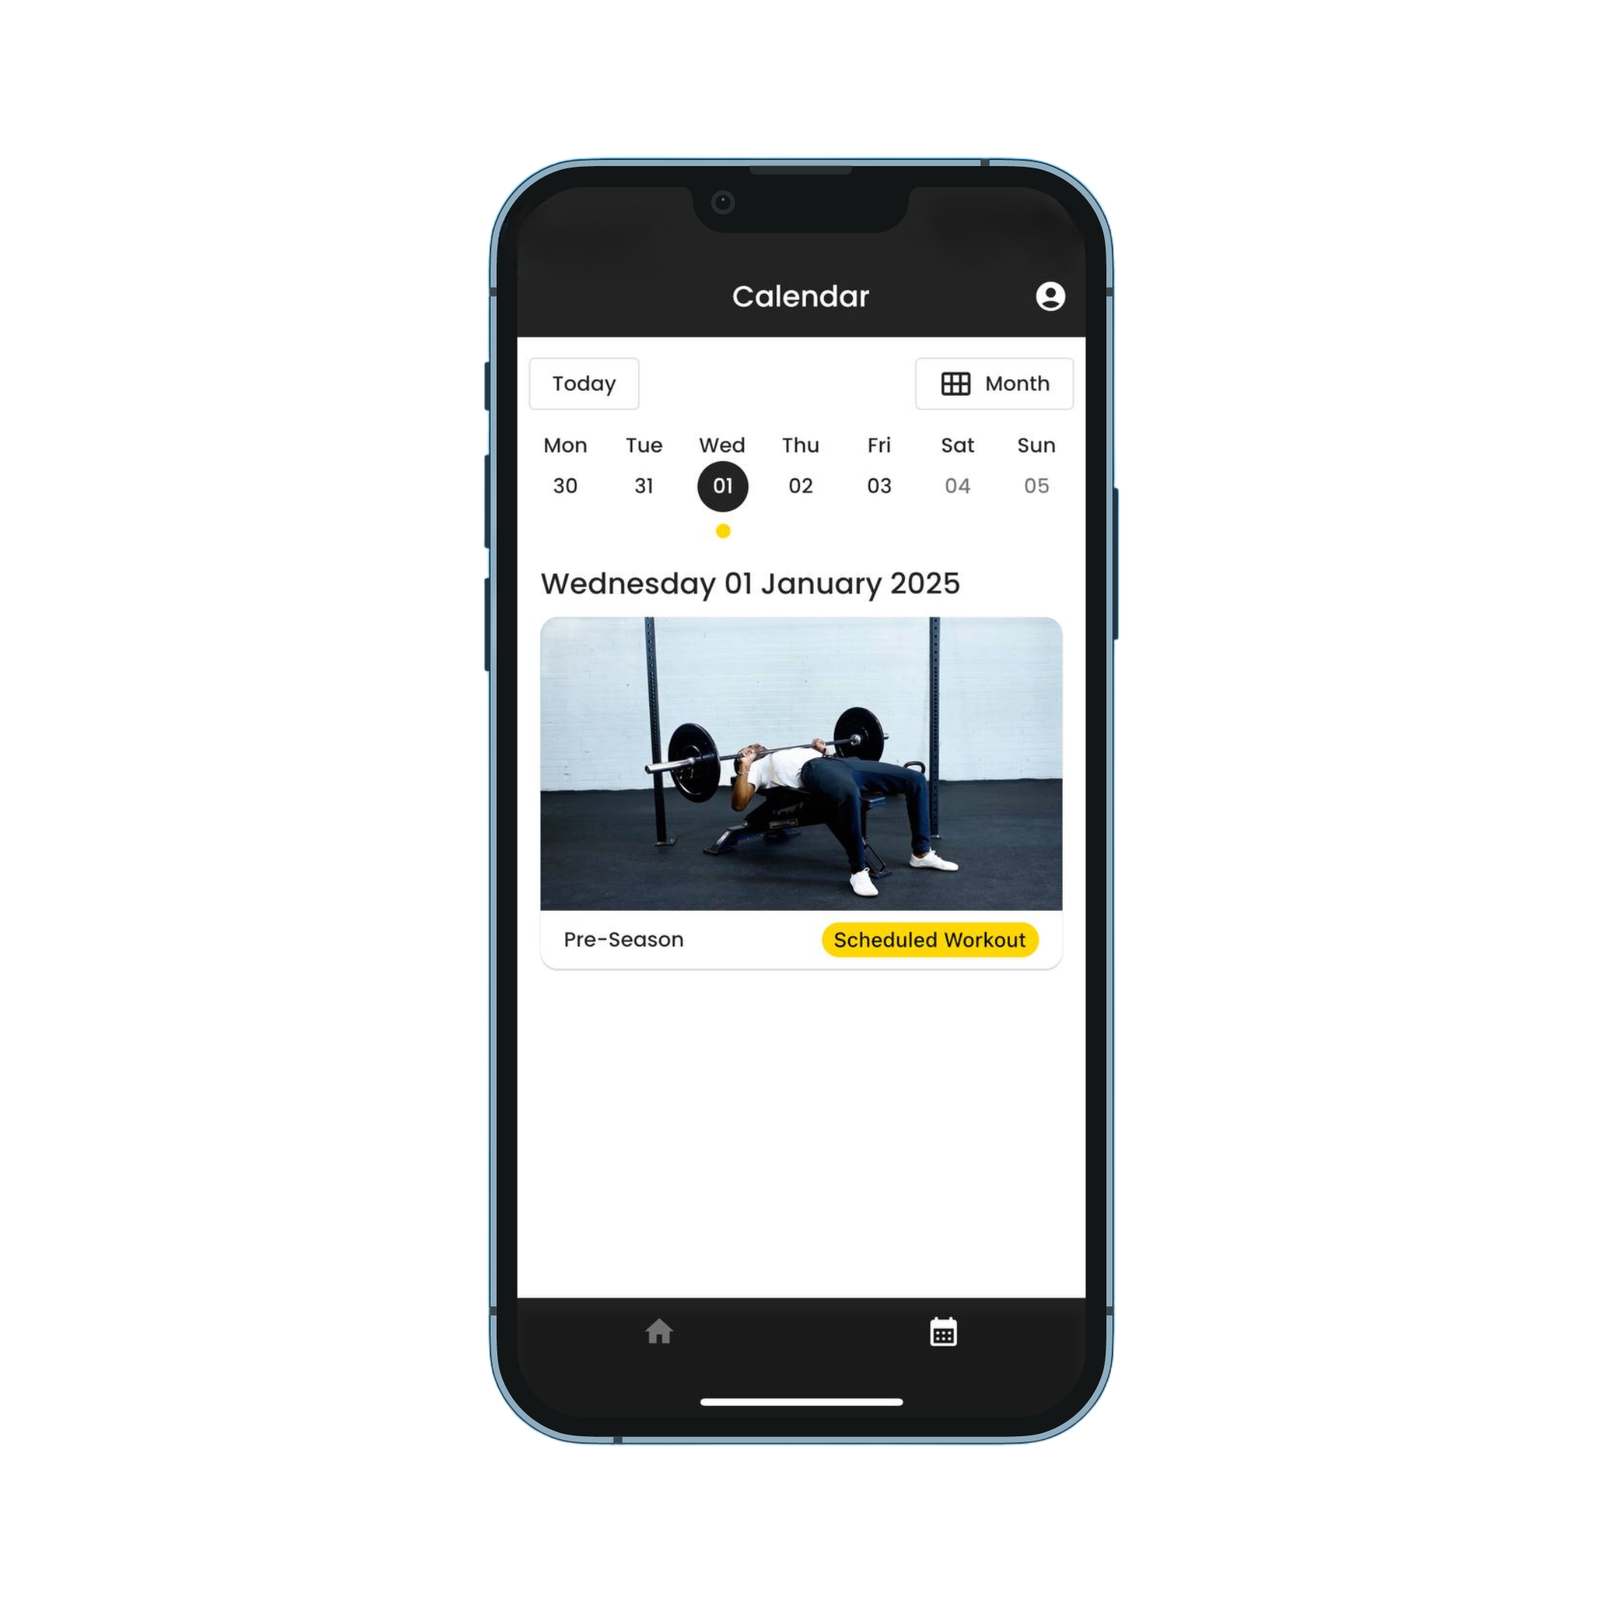
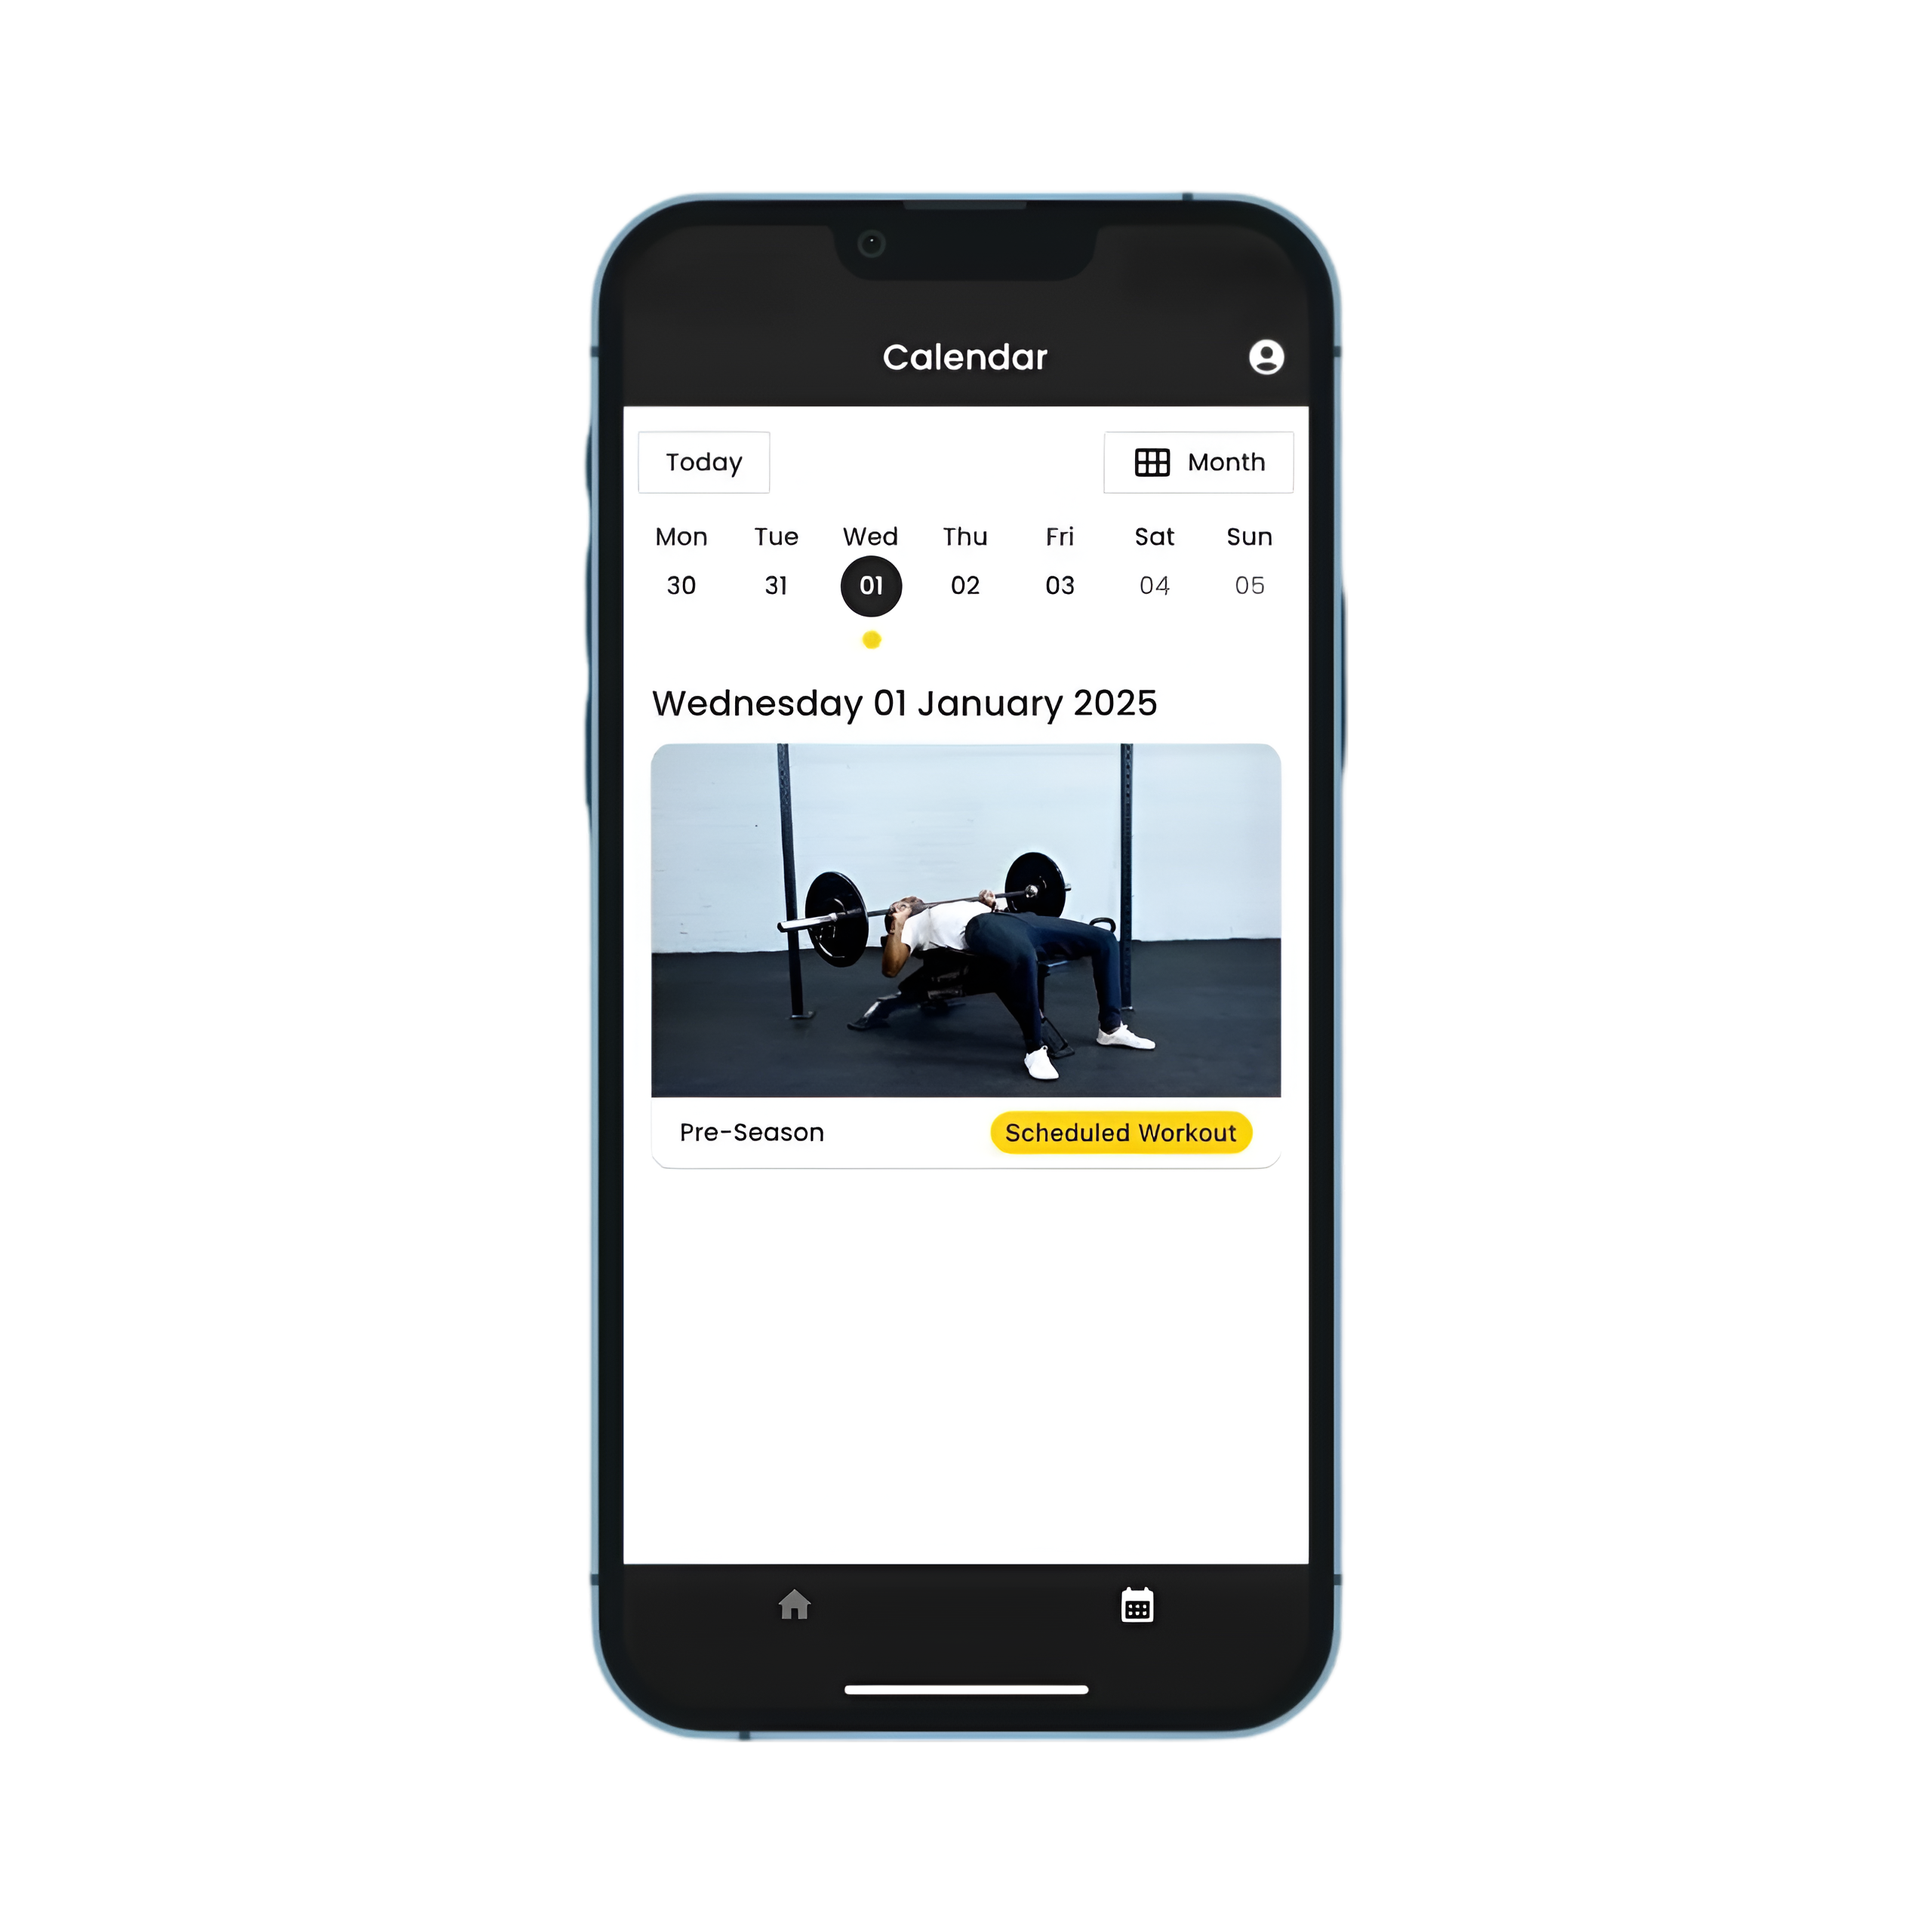
improve images quality

diff --git a/src/app/[locale]/amateur-sport/page.tsx b/src/app/[locale]/amateur-sport/page.tsx
@@ -30,10 +30,10 @@ export default function Page({ params: { locale } }: PageProps) {
       <p>{formatMessage({ id: "amateur.sports.page.paragraph.two" })}</p>
       <Flex justifyContent="center">
         <Image
-          src="/img/me-fit-app-home.png"
+          src="/img/me-fit-app-home.png "
           alt=""
-          width={567}
-          height={567}
+          width={453}
+          height={463}
           className={styles.proMainImages}
         />
       </Flex>

diff --git a/src/app/[locale]/app/page.tsx b/src/app/[locale]/app/page.tsx
@@ -62,9 +62,9 @@ export default function Page({ params: { locale } }: PageProps) {
       <section className={styles.screenshots}>
         <Flex justifyContent="center" gap="2rem" flexWrap="wrap">
           <Image
-            src="/img/me-fit-app-three-images.png"
+            src="/img/file.png"
             alt=""
-            width={900}
+            width={700}
             height={600}
             className={styles.appMainImages}
           />

diff --git a/src/app/[locale]/app/page.module.css b/src/app/[locale]/app/page.module.css
@@ -48,12 +48,11 @@
 }
 .appMainImages {
   width: 100%;
-  height: auto;
   object-fit: contain;
 }
 
-@media (max-width: 701px) {
+@media (max-width: 700px) {
   .appMainImages {
-    width: 222%;
+    width: 150%;
   }
 }

diff --git a/src/app/[locale]/amateur-sport/amateur-sport.module.css b/src/app/[locale]/amateur-sport/amateur-sport.module.css
@@ -4,8 +4,4 @@
   object-fit: contain;
 }
 
-@media (max-width: 700px) {
-  .proMainImages {
-    width: 170%;
-  }
-}
+
